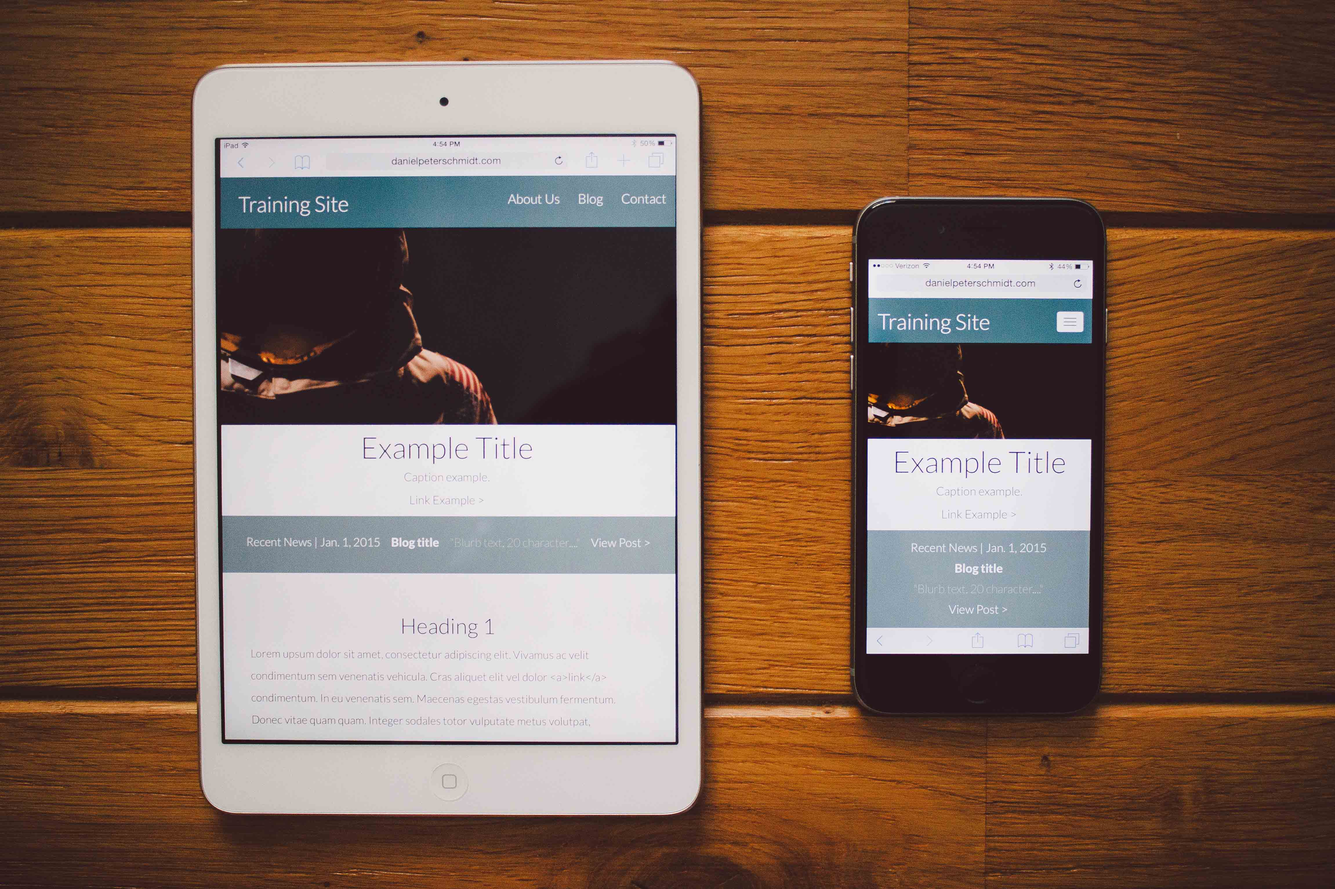
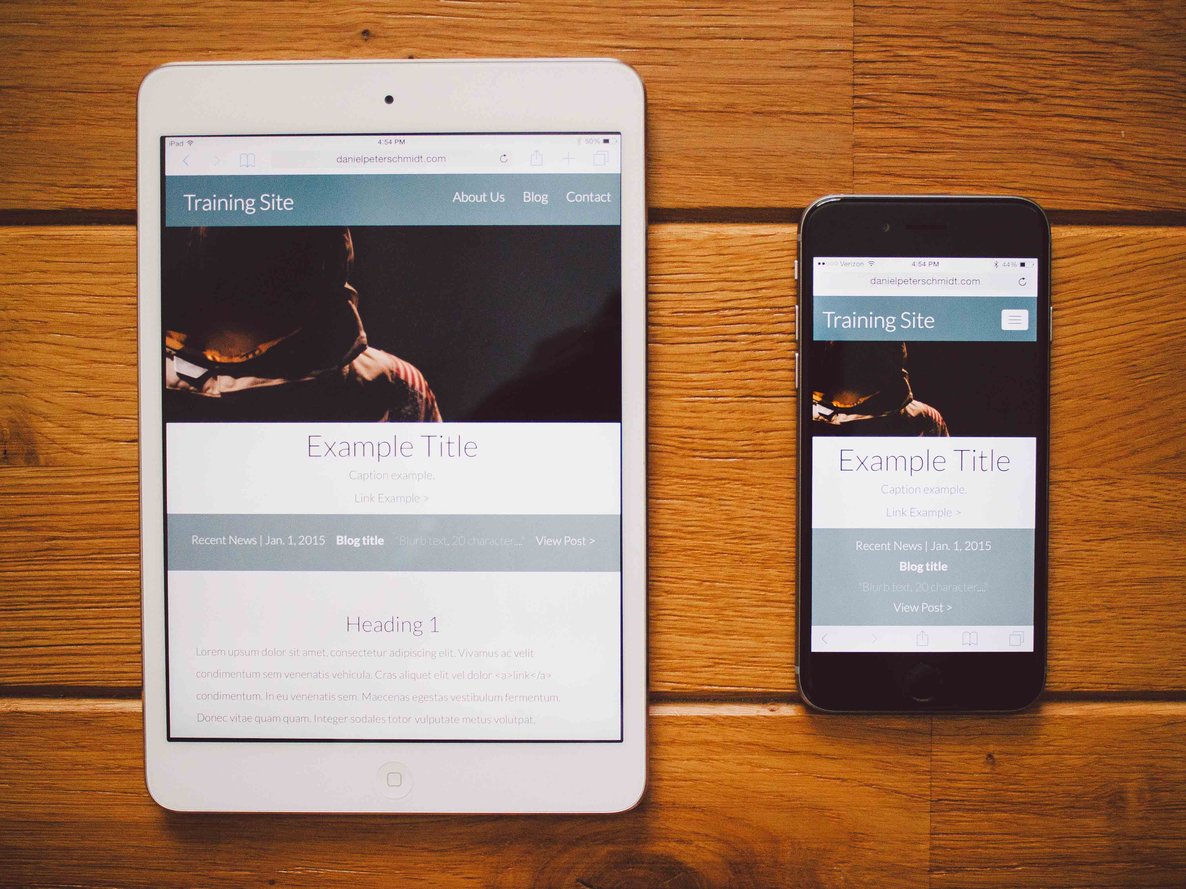
hooked up iPad screenshots

diff --git a/responsive.html b/responsive.html
@@ -51,7 +51,7 @@
 
 <img class = "imglarge" src="/images/ellingson_desk.png">
 
-<img class = "imgsmall" src="/images/ellingson_phone.png">
+<img class = "imgsmall" src="/images/ellingson_tablet.png">
 
 <img class = "imgsmall" src="/images/ellingson_phone.png">
 
@@ -63,7 +63,7 @@
 
 <img class = "imglarge" src="/images/efelle_desk.png">
 
-<img class = "imgsmall" src="/images/efelle_phone.png">
+<img class = "imgsmall" src="/images/efelle_tablet.png">
 
 <img class = "imgsmall" src="/images/efelle_phone.png">
 
